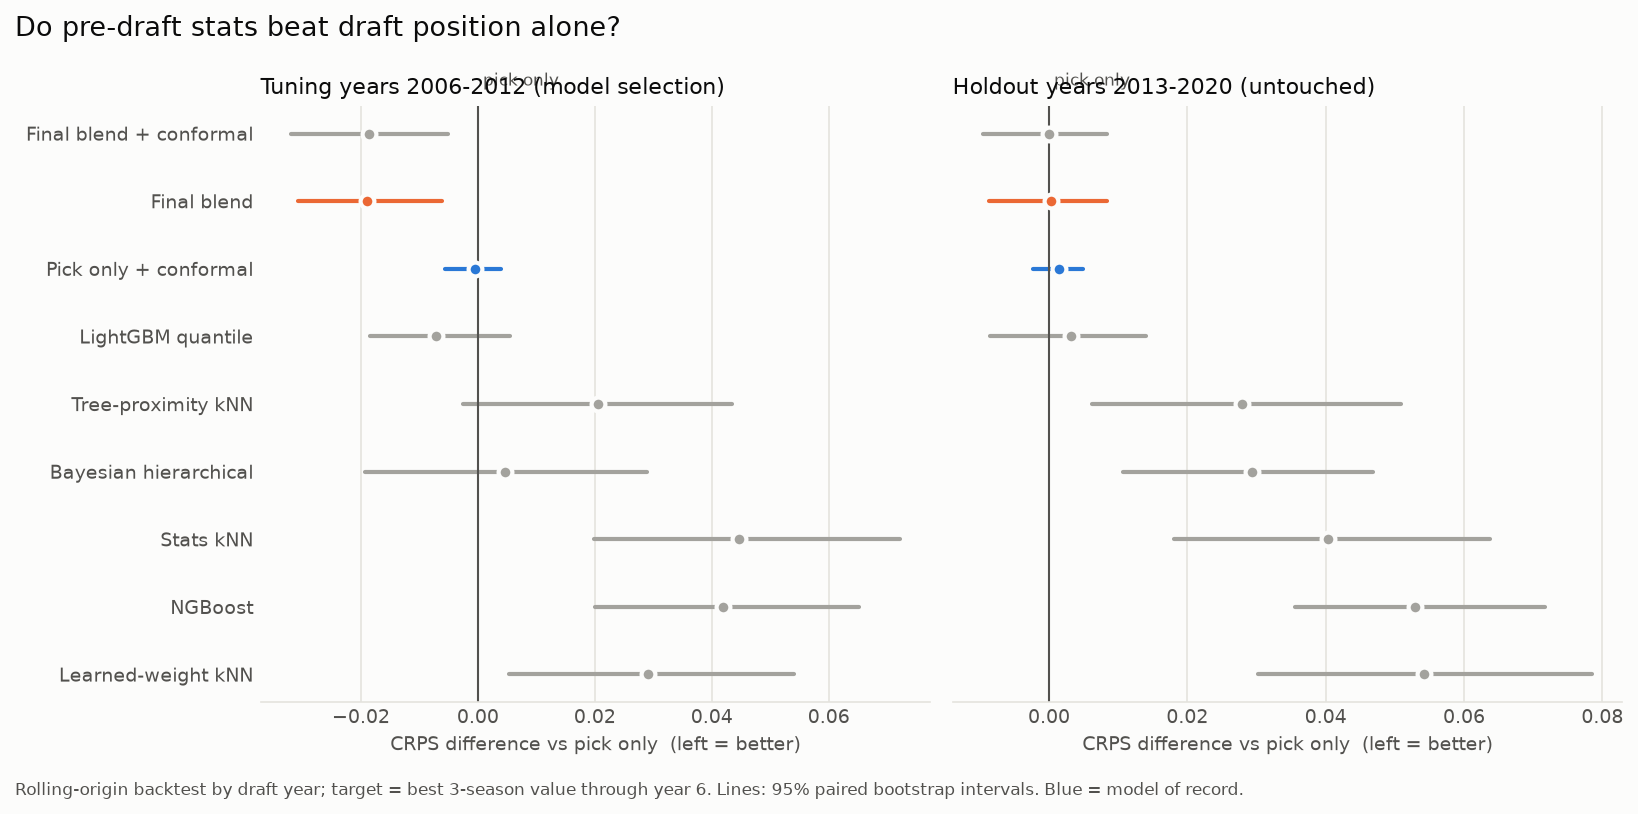
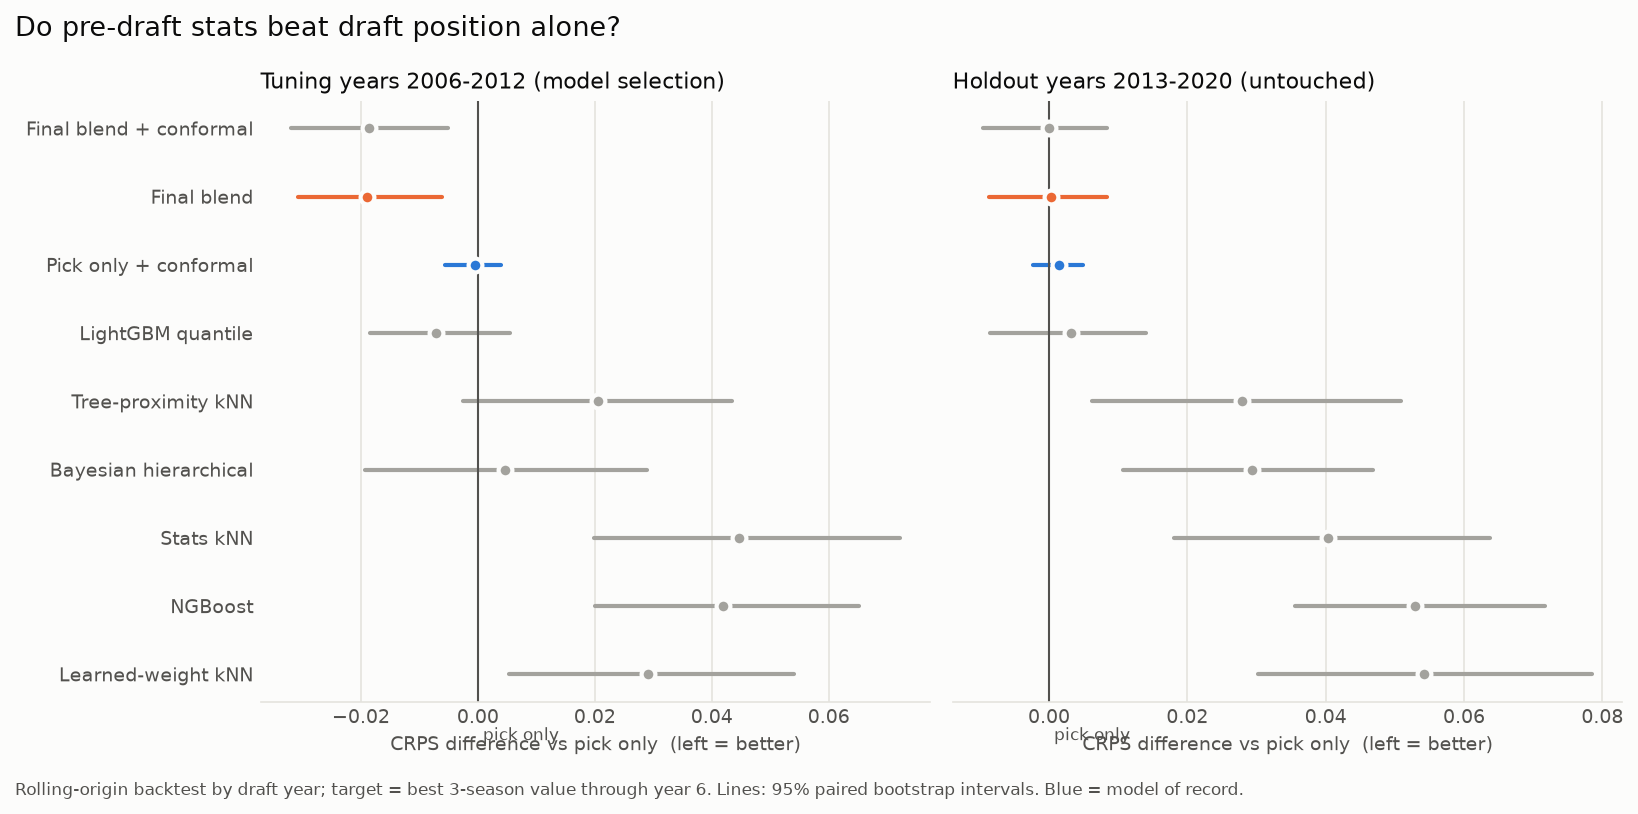
Document Phase 3 decisions, README writeup and roadmap

diff --git a/DECISIONS.md b/DECISIONS.md
@@ -82,3 +82,32 @@ A career has ended if the player has not appeared in either of the last two comp
 
 ### D019: Cox model split at the rookie deal
 A single Cox model fails the proportional-hazards test for draft pick (p < 0.0001): pick matters far more during the rookie deal than afterwards. Fitting seasons 1–4 and seasons 5+ separately: each doubling of pick number multiplies the yearly hazard of a career ending by 2.07 (1.83–2.34) in seasons 1–4 but only 1.16 (1.09–1.24) afterwards; age at draft matters more later (1.26 per year vs 1.11). The seasons-5+ model passes the assumption test; the seasons 1–4 hazard ratio for pick is an average over those years (second-rounders mostly leave in years 1–2).
+
+### D020: Phase 3 target and evaluation design
+- **Target:** best 3-season value through season 6 after the draft. By year 6 the median player has reached his career peak, and the year-6 peak ranks players almost identically to the career peak (Spearman 0.98 vs. through year 14), while letting classes through 2020 be scored.
+- **No leakage:** the model for draft class Y trains only on classes with c + 6 ≤ Y (outcome complete by draft night). `split()` asserts this; a data-quality test checks every projection row. Tier cutoffs and the blend metric's scale are fixed definitions computed in Phase 2 (they use all training classes but no player-level information).
+- **Tuning vs holdout:** every modeling choice (hyperparameters, transforms, blend weights) was made on test years 2006–2012 only. 2013–2020 was scored once, at the end. This mattered: the blend's 5% edge on the tuning years disappeared on the holdout.
+
+### D021: Model of record = draft-slot history + conformal calibration
+Holdout (2013–2020, 480 players), CRPS difference vs pick only, 95% paired bootstrap CI:
+
+| model | CRPS | vs pick only | below floor (25%) | above ceiling (10%) |
+|---|---|---|---|---|
+| Pick only | 0.331 | — | 23.5% | 10.2% |
+| Pick only + conformal | 0.332 | +0.002 (−0.002, +0.005) | 23.7% | 9.8% |
+| Final blend (pick + LightGBM + Bayes) | 0.331 | +0.000 (−0.009, +0.008) | 31.3% | 8.3% |
+| LightGBM quantile (pick + stats) | 0.334 | +0.003 (−0.009, +0.014) | 31.0% | 9.2% |
+| Bayesian hierarchical Tobit | 0.360 | +0.029 (+0.011, +0.047) | 27.2% | 6.9% |
+| Stats kNN (baseline b) | 0.371 | +0.040 (+0.018, +0.064) | 26.5% | 8.4% |
+| NGBoost | 0.384 | +0.053 (+0.036, +0.072) | 51.0% | 19.0% |
+
+No model using pre-draft box-score stats beat the draft pick alone on the holdout, so per the baselines-first rule the simpler model is kept. Conformal calibration is added because it keeps the accuracy of pick-only while giving the best calibration in both periods (tuning: 23.7% / 10.5%; holdout: 23.7% / 9.8%). Known weakness: for the top picks, P(All-Star or better) runs high in the holdout (predicted ~43%, observed ~20%), consistent with 2013–2020 top picks reaching All-Star value by year 6 less often than history implied.
+
+### D022: Comps = standardized stats kNN with a feature-overlap guard
+The first comps failed the sanity check: players missing most college stats (JUCO, Division II, never played) were "close" to everyone on the one or two features they had ("hubness") and appeared as comps for Curry, Zion, Durant, etc. Fix: a historical player can only be a comp if he shares ≥70% of the prospect's available features (others are pushed behind every eligible comp). Comps became sensible (Durant → Carmelo/Pierce; Anthony Davis → Bosh/Aldridge/Brand; SGA → Westbrook/Wall/Rose). The fix made the comps' outcome spread slightly *less* predictive (holdout CRPS 0.361 → 0.371): the hubs were mostly busts and pulled predictions toward realistic outcomes for the wrong reason. Learned similarity: tree-proximity comps beat stats kNN on the tuning years (−0.024, CI excludes 0) but not on the holdout (−0.013, CI −0.028 to +0.002), so the simpler kNN is kept. Comps are descriptive context; the forecast comes from D021.
+
+### D023: Imputation inside folds neutralizes absent features
+Features with fewer than 30 observed values in a fold's training data (e.g. BPM before 2008) are set to the training median for that fold, and standardized values are clipped to ±5. Without this, a test player's raw BPM entered the Bayesian model unscaled and produced ceilings in the thousands.
+
+### D024: Non-college prospects
+International and high-school prospects have only age, size and (sometimes) combine data, so their stats comps are physical-profile comps (LeBron → other high-school bigs; Wembanyama → tall international players). Their projections come from draft slot like everyone else's.

diff --git a/README.md b/README.md
@@ -108,3 +108,56 @@ Median career length: 14 seasons for picks 1–5, 11 for 6–14, 8 for 15–30, 
 ### Limits
 - The validation targets (awards, peak pay) favor peak performance, so they can't fully settle how much longevity should count. The 75/25 weighting is a judgment call, recorded in D016.
 - A career counts as "ended" when the player has missed two straight seasons, so a player on a long injury absence could be misclassified.
+
+## Phase 3: Comps and outcome ranges from pre-draft stats
+
+**Question:** Using only what's known on draft night, can we predict a range of outcomes for each prospect better than draft position alone?
+
+**Setup:**
+- **Target:** best 3-season value through year 6, which ranks players almost identically to their career peak.
+- **Backtest:** rolling-origin, one fold per draft year. A model for class Y trains only on classes whose 6-year outcomes were complete by draft night of Y.
+- **Selection vs. testing:** every modeling choice was made on 2006–2012. The 2013–2020 holdout was scored once.
+
+**Baselines:**
+- **(a)** draft-slot history: the outcomes of the 60 historically nearest picks
+- **(b)** k-nearest-neighbor comps on standardized pre-draft stats, age and physical profile
+
+**Models tried:**
+- LightGBM quantile regression
+- NGBoost
+- Bayesian hierarchical censored (Tobit) regression with partial pooling by position, era and pick range
+- Learned-similarity comps (ridge-weighted and tree-proximity)
+- Quantile blends
+- Conformal calibration
+
+![Model comparison](reports/phase3/model_comparison.png)
+
+**Finding: pre-draft box-score stats did not beat draft position.**
+- On the holdout, the best stats-based model (a blend of pick history, LightGBM and the Bayesian model) tied draft-slot history (CRPS 0.331 vs 0.331; difference CI −0.009 to +0.008).
+- On the tuning years the same blend looked 5% better, an illusion the held-out years exposed.
+- Stats-only comps were significantly *worse* than draft slot (+0.040).
+- Teams' draft order already absorbs what college box scores say. This sets up the headline question for Phases 4–5: does *how* a prospect scores add information that box scores don't?
+
+The model of record is therefore the simplest one: **draft-slot history with conformal calibration.** It is also the best calibrated: on the holdout, 23.7% of players finished below their floor (target 25%) and 9.8% above their ceiling (target 10%).
+
+![Calibration](reports/phase3/calibration.png)
+
+**Where it misses:** for top picks, P(All-Star or better) ran high in 2013–2020. Predictions near 43% came true about 20% of the time.
+
+### Comps
+Each prospect gets 15 comps from earlier draft classes, ranked by similarity in pre-draft stats, age and size. Each comp comes with a similarity score and the features that make the two players alike. A first version failed the sanity check: players missing most stats looked similar to everyone. A feature-overlap rule fixed it:
+
+| Prospect | Top comps |
+|---|---|
+| Kevin Durant | Carmelo Anthony, Paul Pierce, Tim Thomas |
+| Anthony Davis | Chris Bosh, LaMarcus Aldridge, Elton Brand |
+| Shai Gilgeous-Alexander | Russell Westbrook, John Wall, Derrick Rose, Kyle Lowry |
+| Cooper Flagg | Luol Deng, Carmelo Anthony, Thaddeus Young |
+| AJ Dybantsa | RJ Barrett, Jabari Parker, Carmelo Anthony |
+
+Comps are context, not the forecast. Stats-only comps are a poor guide to outcomes: Curry's and Lillard's nearest comps mostly flamed out.
+
+### 2026 class
+![2026 bands](reports/phase3/draft_2026_bands.png)
+
+Full tables are in [reports/phase3/phase3_results.md](reports/phase3/phase3_results.md).

diff --git a/ROADMAP.md b/ROADMAP.md
@@ -29,13 +29,13 @@
 - [x] Survival analysis of career length with censoring (Kaplan-Meier, Cox split at rookie deal)
 
 ## Phase 3: Stats comps and outcome bands, MVP (`phase-3-comps-bands`)
-- [ ] Rolling-origin backtest harness with leakage tests
-- [ ] Baselines: pick-only, standardized kNN
-- [ ] Learned similarity (weighted kNN, tree proximity) + sanity-check comps
-- [ ] LightGBM quantile, NGBoost, PyMC hierarchical
-- [ ] Conformal calibration of intervals
-- [ ] Evaluation: pinball, CRPS, Brier, calibration, coverage, all vs baselines
-- [ ] Per-player output: top-15 comps, floor/median/ceiling, tier probabilities
+- [x] Rolling-origin backtest harness with leakage tests (tuning 2006-2012, holdout 2013-2020)
+- [x] Baselines: pick-only, standardized kNN
+- [x] Learned similarity (weighted kNN, tree proximity) + sanity-check comps
+- [x] LightGBM quantile, NGBoost, PyMC hierarchical (Tobit), quantile blends
+- [x] Conformal calibration of intervals
+- [x] Evaluation: pinball, CRPS, Brier, calibration, coverage, all vs baselines with bootstrap CIs
+- [x] Per-player output: top-15 comps, floor/median/ceiling, tier probabilities
 
 ## Phase 4: Shot audit and Shot DNA (`phase-4-shot-dna`)
 - [ ] Coverage audit by season, conference, player → **stop and report**

diff --git a/CLAUDE.md b/CLAUDE.md
@@ -19,6 +19,12 @@ NBA draft analytics. For every prospect (draft classes 1996–2026), find histor
 - Tiers are cutoffs on `peak3_blend` (D017); read cutoffs from `data/modeled/outcomes/params.json`, never hardcode them.
 - Seasons out of the league count as zero. Always use `modeled.outcomes__outcomes_through_n` at matching N.
 
+## Modeling conventions (Phase 3)
+- Target `y_peak6` = best 3-season blend value through season 6. Backtests use `eval.backtest` (class c trains year Y only if c + 6 <= Y).
+- Choose models on test years 2006-2012 (`phase3.TUNING`); report 2013-2020 (`phase3.HOLDOUT`) only as the final, untouched comparison. Never tune on the holdout.
+- Model of record: `phase3.pick_conformal` (D021). A new model replaces it only if it beats it on the holdout with a CI excluding zero.
+- Every new comparison reports CRPS, pinball (floor/median/ceiling), Brier (bust, All-Star) and coverage vs both baselines.
+
 ## Draft class roles
 - 1996–2021: training and backtesting
 - 2022–2025: in-progress, provisional grades
